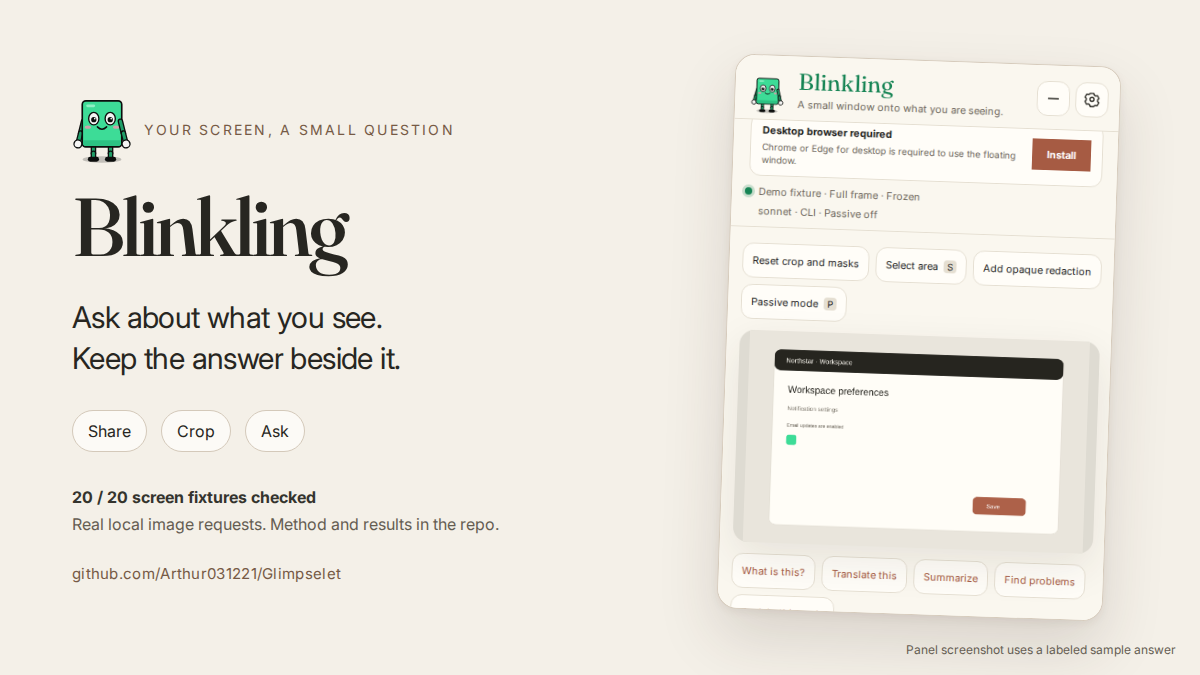
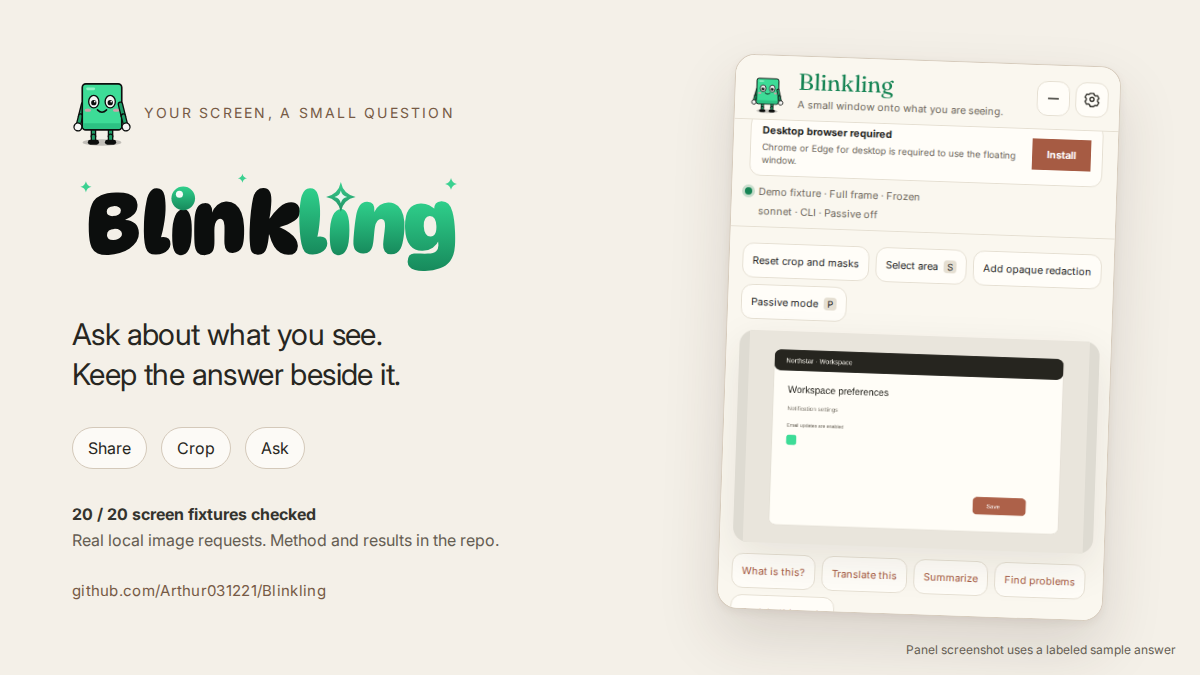
Draw the social card and the store promo tile with the wordmark kit
The promo tile now has an HTML source next to its PNG.

diff --git a/assets/store/promo.html b/assets/store/promo.html
@@ -1,0 +1,66 @@
+<!doctype html>
+<html lang="en">
+  <meta charset="utf-8" /><title>Blinkling promo tile</title>
+  <style>
+    @font-face {
+      font-family: Inter;
+      src: url("../../public/assets/Inter.ttf");
+    }
+    * {
+      box-sizing: border-box;
+    }
+    body {
+      margin: 0;
+      width: 440px;
+      height: 280px;
+      background: #f4f0e8;
+      color: #272621;
+      font-family: Inter, Arial, sans-serif;
+      overflow: hidden;
+      display: flex;
+      flex-direction: column;
+      justify-content: center;
+      gap: 14px;
+      padding: 0 34px;
+    }
+    .eyebrow {
+      display: flex;
+      align-items: center;
+      gap: 10px;
+      font-size: 11px;
+      font-weight: 600;
+      letter-spacing: 0.16em;
+      text-transform: uppercase;
+      color: #765a45;
+    }
+    .eyebrow img {
+      width: 38px;
+      height: 47px;
+    }
+    h1 {
+      margin: 0;
+      line-height: 0;
+    }
+    h1 img {
+      width: 250px;
+      height: auto;
+    }
+    p {
+      margin: 0;
+      font-size: 17px;
+      line-height: 1.35;
+    }
+    .note {
+      font-size: 12px;
+      color: #765a45;
+    }
+  </style>
+  <body>
+    <div class="eyebrow">
+      <img src="../logo.svg" alt="" />A browser companion
+    </div>
+    <h1><img src="../brand/wordmark-light-static.svg" alt="Blinkling" /></h1>
+    <p>Blink on your desktop reads the page<br />you point at, and asks.</p>
+    <p class="note">Your page stays in view.</p>
+  </body>
+</html>

diff --git a/assets/social-card.html b/assets/social-card.html
@@ -46,11 +46,12 @@
       width: 60px;
     }
     h1 {
-      font-family: Fraunces, Georgia, serif;
-      font-weight: 520;
-      font-size: 82px;
-      letter-spacing: -4px;
-      margin: 10px 0 20px;
+      margin: 14px 0 22px;
+      line-height: 0;
+    }
+    h1 img {
+      width: 400px;
+      height: auto;
     }
     .tagline {
       font-size: 30px;
@@ -117,7 +118,7 @@
       <div class="eyebrow">
         <img src="logo.svg" alt="Blink" />Your screen, a small question
       </div>
-      <h1>Blinkling</h1>
+      <h1><img src="brand/wordmark-light-static.svg" alt="Blinkling" /></h1>
       <p class="tagline">
         Ask about what you see.<br />Keep the answer beside it.
       </p>
@@ -128,7 +129,7 @@
         <strong>20 / 20 screen fixtures checked</strong><br />Real local image
         requests. Method and results in the repo.
       </div>
-      <div class="repo">github.com/Arthur031221/Glimpselet</div>
+      <div class="repo">github.com/Arthur031221/Blinkling</div>
     </div>
     <div class="panel">
       <img src="screenshots/demo.png" alt="Blinkling panel and sample answer" />
